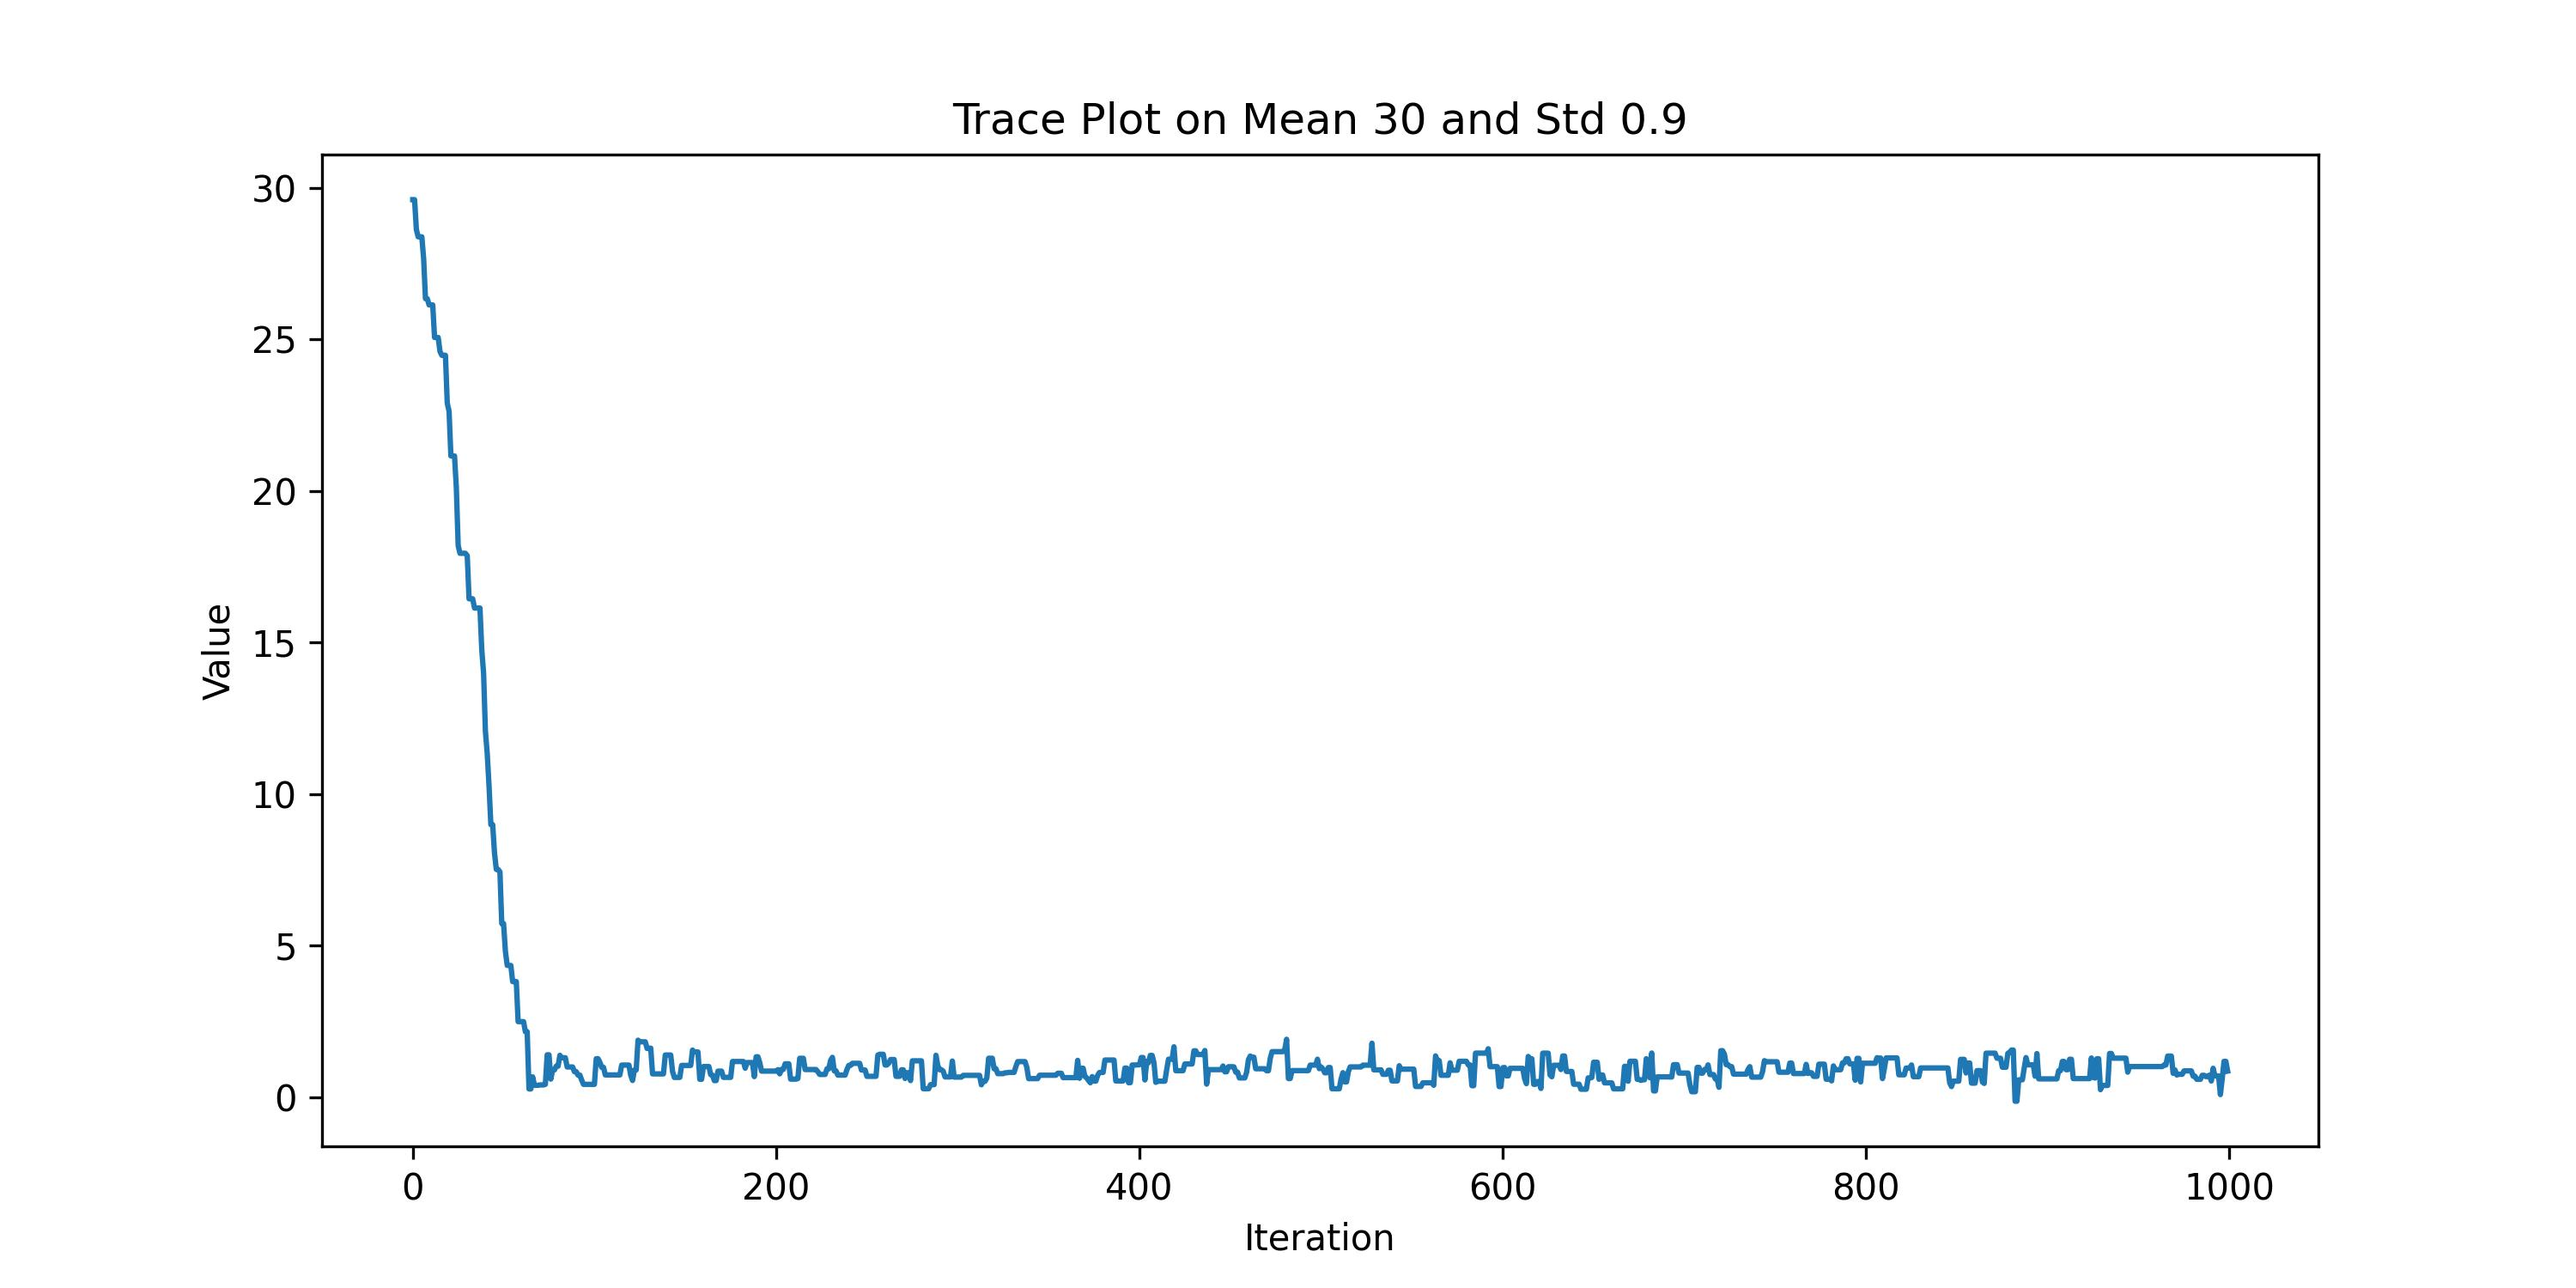
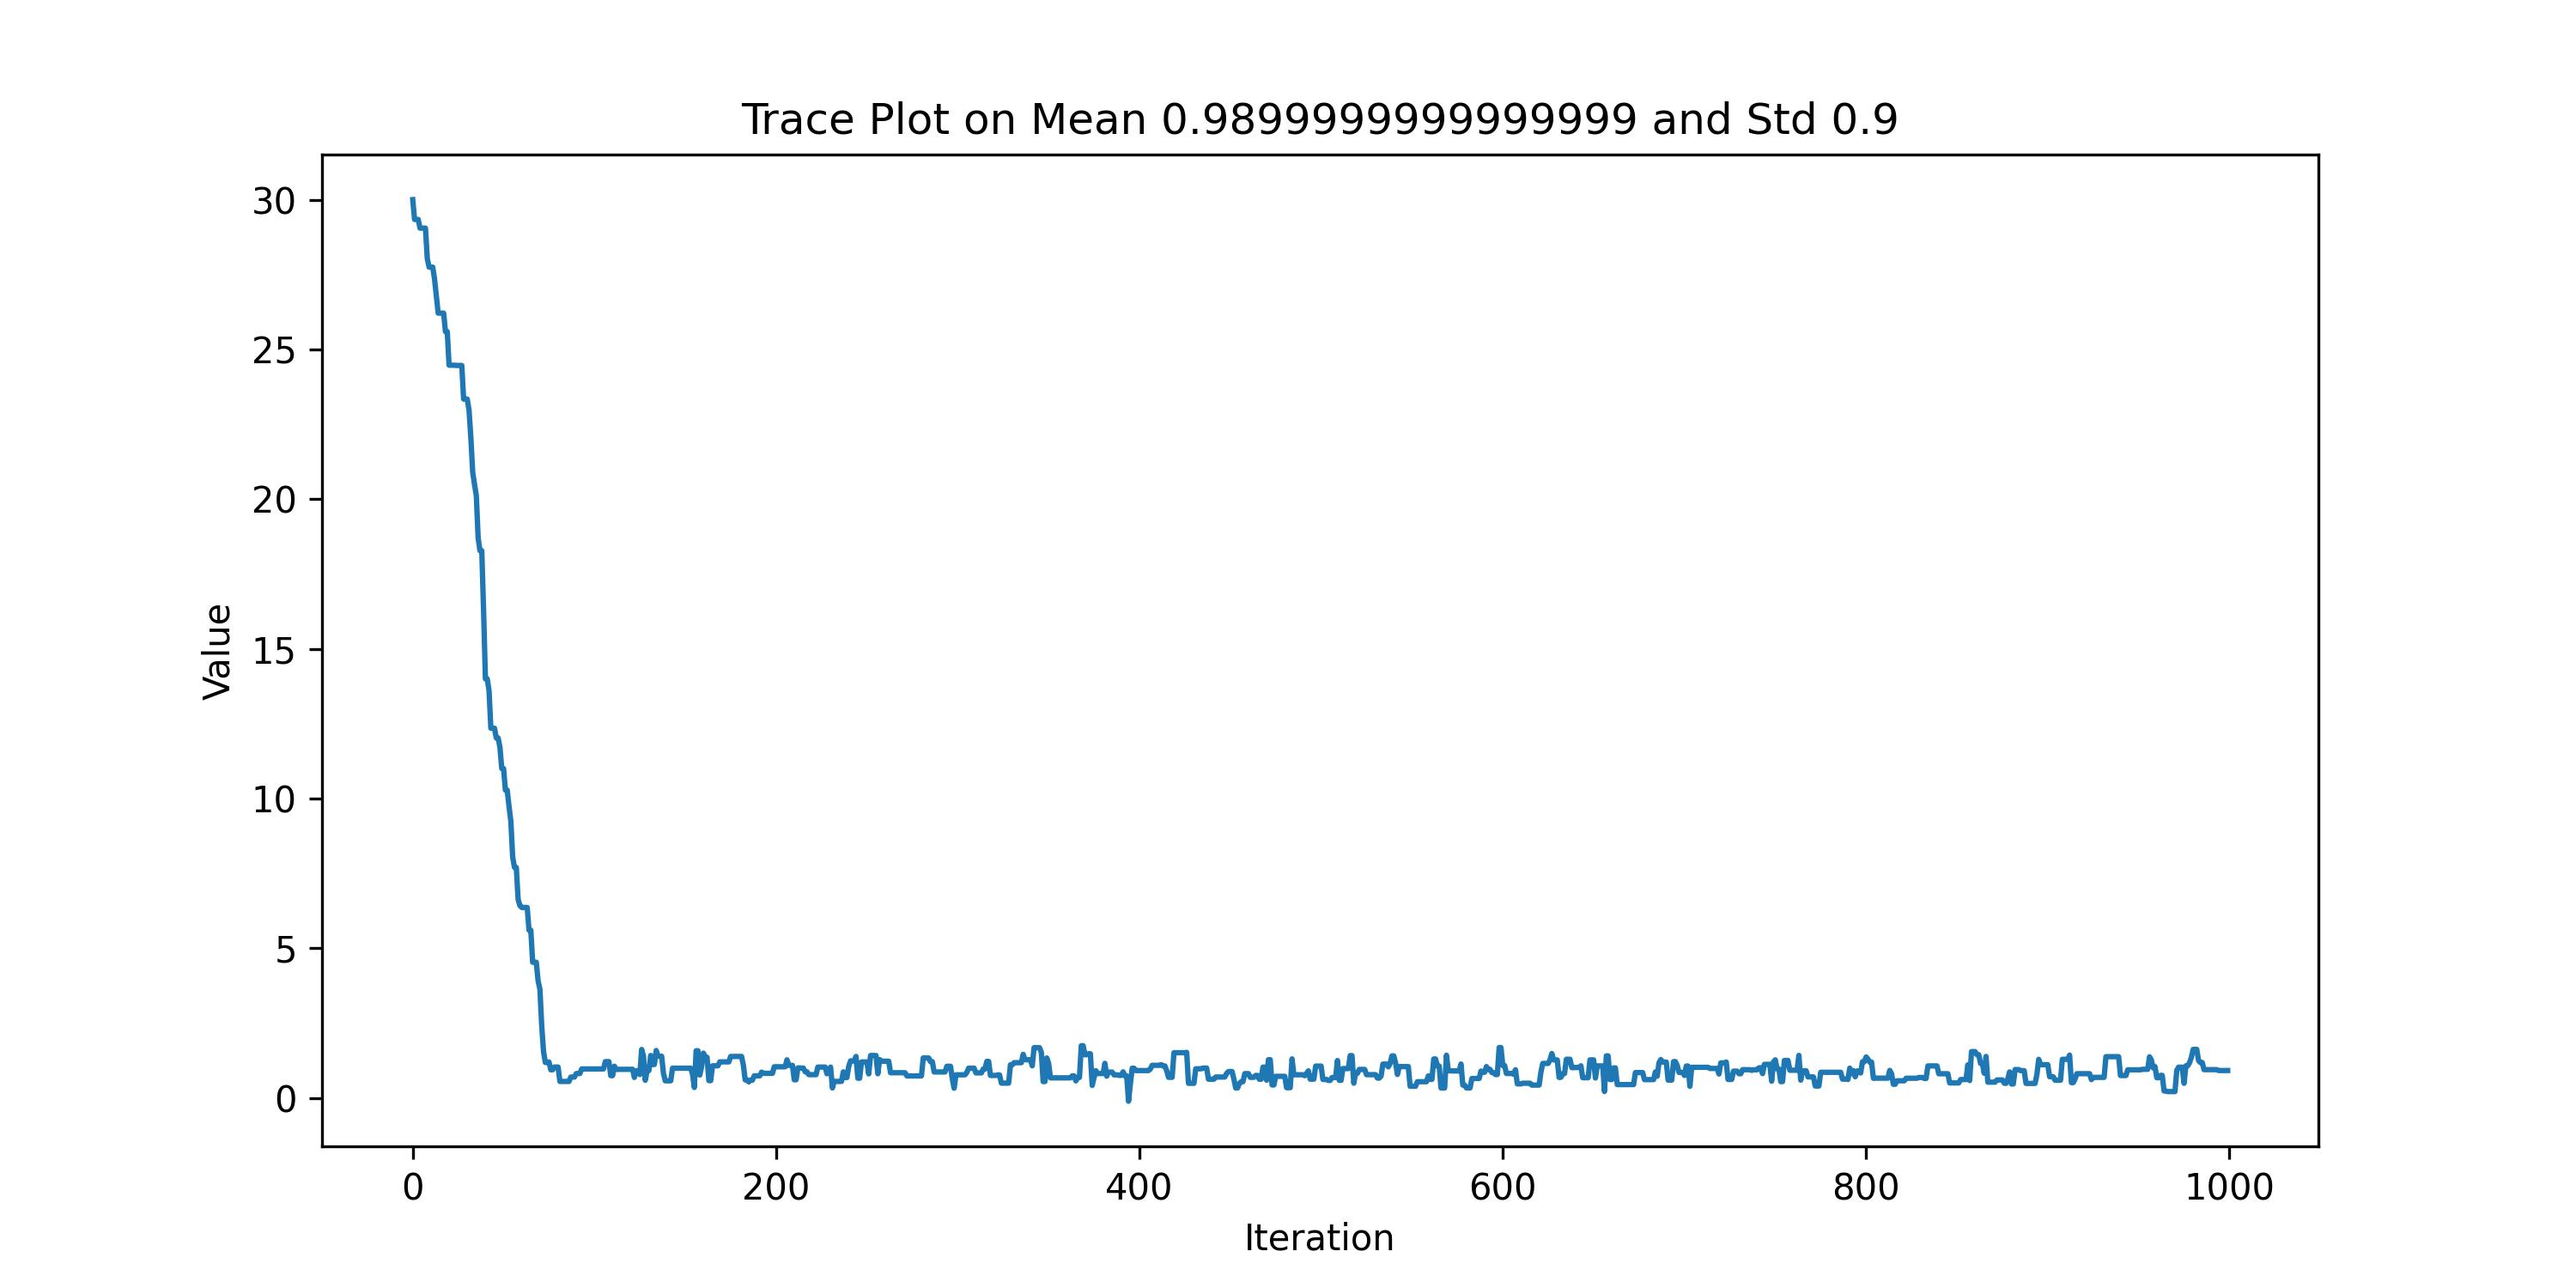
ADD posterior after MC vs prior distributions

diff --git a/main.py b/main.py
@@ -112,7 +112,7 @@ def plot_t_density(df=1, lty='--', add=False):
     plt.ylabel("Density")
 
 
-def density_estimate_plot(samples, description, x_range=(-1,3)):
+def density_estimate_plot(samples, description, x_range, prior_mean):
     """
     Plot the posterior density using kernel density estimation.
     :param samples: List of posterior samples.
@@ -126,6 +126,9 @@ def density_estimate_plot(samples, description, x_range=(-1,3)):
     plt.title(description)
 
     plt.xlim(x_range)
+    # Piro mean
+    plt.axvline(prior_mean, color='red', linestyle='-', label='y_bar on prior')
+
     plt.xlabel("Value")
     plt.ylabel("Density")
     # Save the plot as a JPG image
@@ -148,8 +151,8 @@ def main(y, mu, std):
     #print('Posterior: ', posterior_samples[0])
     print('Acceptance Ratio: ', posterior_samples[-1])
 
-    trace_plot(samples, f"Mean {mu} and Std {std}")
-    density_estimate_plot(samples, "Density estimate on posterior distribution ")
+    trace_plot(samples, f"Mean {ybar} and Std {std}")
+    density_estimate_plot(samples, "Density estimate on posterior distribution ", (-1,3), ybar)
 
 if __name__ == '__main__':
     y = [1.2, 1.4, -.5, .3, .9, 2.3, 1, .1, 1.3, 1.9]
